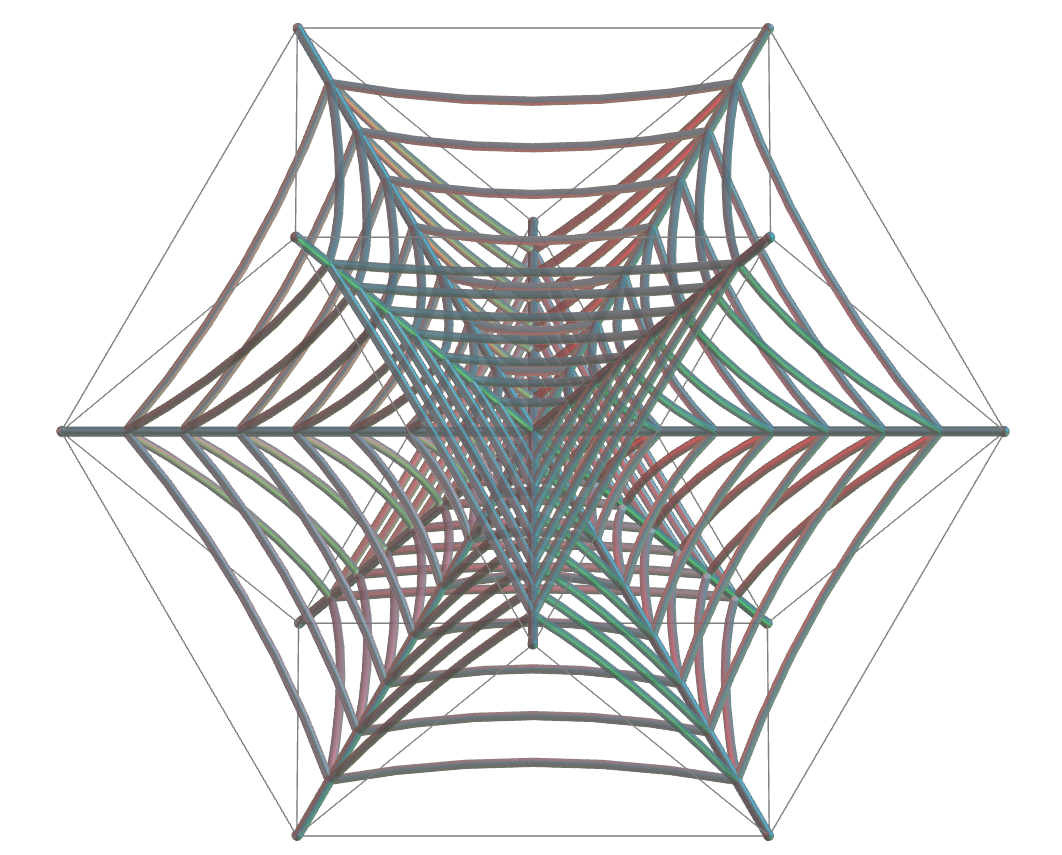
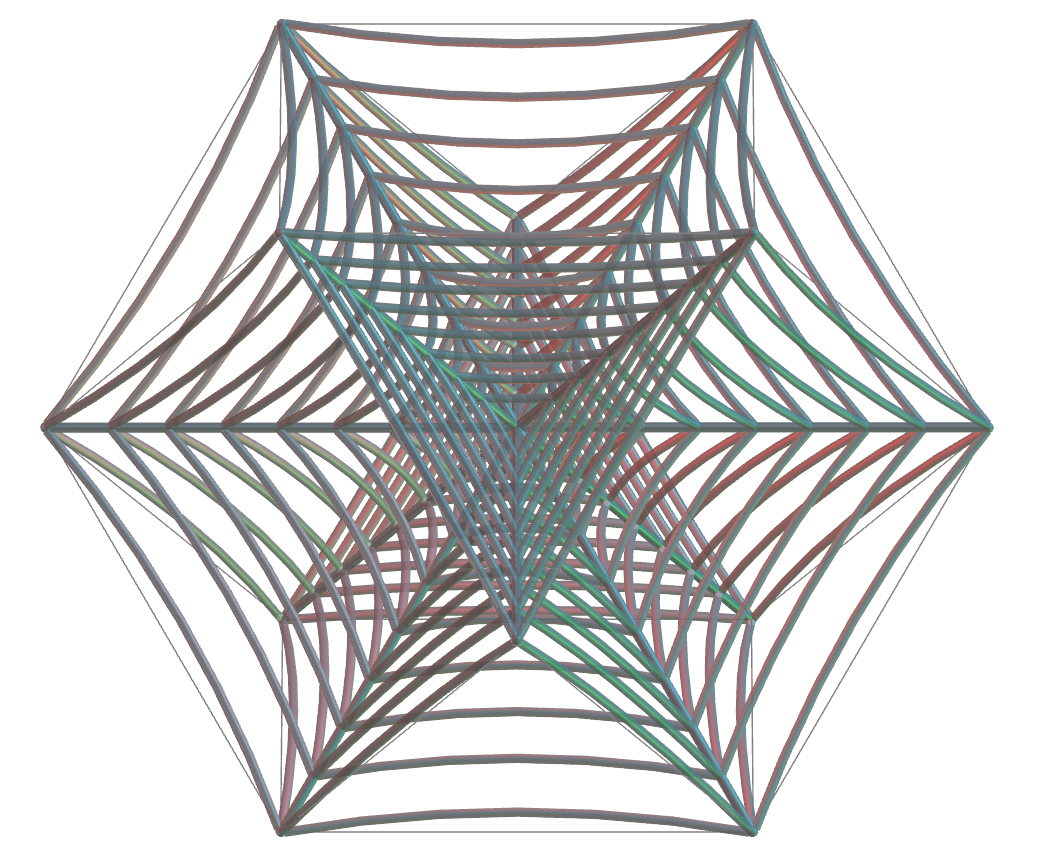
update

Changed region(s): [[0.0309, 0.0, 0.9566, 1.0]]

diff --git a/spiderweb/vr/Octahemioctahedron.htm b/spiderweb/vr/Octahemioctahedron.htm
@@ -34,7 +34,7 @@
 				<a-entity mixin="s5_3">
 					<a-entity rotation="90 90 0" scale="4.5 4.5 4.5">			
 						<a-entity mixin="s4_3">
-							<a-torus mixin="tr" position="-5.14 0 0" rotation="0 0 -10.25" arc="20.5" radius="4.87"></a-torus>
+							<a-torus mixin="tr" position="-6.17 0 0" rotation="0 0 -10" arc="20" radius="5.67"></a-torus><a-torus mixin="tr" position="-5.14 0 0" rotation="0 0 -10.25" arc="20.5" radius="4.87"></a-torus>
 							<a-torus mixin="tr" position="-4.04 0 0" rotation="0 0 -10.75" arc="21.5" radius="3.97"></a-torus>
 							<a-torus mixin="tr" position="-2.94 0 0" rotation="0 0 -11.5" arc="23" radius="3.07"></a-torus>
 							<a-torus mixin="tr" position="-1.84 0 0" rotation="0 0 -13.5" arc="27" radius="2.17"></a-torus>
@@ -48,7 +48,7 @@
 					</a-entity>
 					<a-entity rotation="90 90 60" scale="4.5 4.5 4.5">			
 						<a-entity mixin="s4_3">
-							<a-torus mixin="tr" position="-5.14 0 0" rotation="0 0 -10.25" arc="20.5" radius="4.87"></a-torus>
+							<a-torus mixin="tr" position="-6.17 0 0" rotation="0 0 -10" arc="20" radius="5.67"></a-torus><a-torus mixin="tr" position="-5.14 0 0" rotation="0 0 -10.25" arc="20.5" radius="4.87"></a-torus>
 							<a-torus mixin="tr" position="-4.04 0 0" rotation="0 0 -10.75" arc="21.5" radius="3.97"></a-torus>
 							<a-torus mixin="tr" position="-2.94 0 0" rotation="0 0 -11.5" arc="23" radius="3.07"></a-torus>
 							<a-torus mixin="tr" position="-1.84 0 0" rotation="0 0 -13.5" arc="27" radius="2.17"></a-torus>
@@ -62,7 +62,7 @@
 					</a-entity>
 					<a-entity rotation="90 90 120" scale="4.5 4.5 4.5">			
 						<a-entity mixin="s4_3">
-							<a-torus mixin="tr" position="-5.14 0 0" rotation="0 0 -10.25" arc="20.5" radius="4.87"></a-torus>
+							<a-torus mixin="tr" position="-6.17 0 0" rotation="0 0 -10" arc="20" radius="5.67"></a-torus><a-torus mixin="tr" position="-5.14 0 0" rotation="0 0 -10.25" arc="20.5" radius="4.87"></a-torus>
 							<a-torus mixin="tr" position="-4.04 0 0" rotation="0 0 -10.75" arc="21.5" radius="3.97"></a-torus>
 							<a-torus mixin="tr" position="-2.94 0 0" rotation="0 0 -11.5" arc="23" radius="3.07"></a-torus>
 							<a-torus mixin="tr" position="-1.84 0 0" rotation="0 0 -13.5" arc="27" radius="2.17"></a-torus>
@@ -76,7 +76,7 @@
 					</a-entity>
 					<a-entity rotation="90 90 180" scale="4.5 4.5 4.5">			
 						<a-entity mixin="s4_3">
-							<a-torus mixin="tr" position="-5.14 0 0" rotation="0 0 -10.25" arc="20.5" radius="4.87"></a-torus>
+							<a-torus mixin="tr" position="-6.17 0 0" rotation="0 0 -10" arc="20" radius="5.67"></a-torus><a-torus mixin="tr" position="-5.14 0 0" rotation="0 0 -10.25" arc="20.5" radius="4.87"></a-torus>
 							<a-torus mixin="tr" position="-4.04 0 0" rotation="0 0 -10.75" arc="21.5" radius="3.97"></a-torus>
 							<a-torus mixin="tr" position="-2.94 0 0" rotation="0 0 -11.5" arc="23" radius="3.07"></a-torus>
 							<a-torus mixin="tr" position="-1.84 0 0" rotation="0 0 -13.5" arc="27" radius="2.17"></a-torus>
@@ -90,7 +90,7 @@
 					</a-entity>
 					<a-entity rotation="90 90 240" scale="4.5 4.5 4.5">			
 						<a-entity mixin="s4_3">
-							<a-torus mixin="tr" position="-5.14 0 0" rotation="0 0 -10.25" arc="20.5" radius="4.87"></a-torus>
+							<a-torus mixin="tr" position="-6.17 0 0" rotation="0 0 -10" arc="20" radius="5.67"></a-torus><a-torus mixin="tr" position="-5.14 0 0" rotation="0 0 -10.25" arc="20.5" radius="4.87"></a-torus>
 							<a-torus mixin="tr" position="-4.04 0 0" rotation="0 0 -10.75" arc="21.5" radius="3.97"></a-torus>
 							<a-torus mixin="tr" position="-2.94 0 0" rotation="0 0 -11.5" arc="23" radius="3.07"></a-torus>
 							<a-torus mixin="tr" position="-1.84 0 0" rotation="0 0 -13.5" arc="27" radius="2.17"></a-torus>
@@ -104,7 +104,7 @@
 					</a-entity>
 					<a-entity rotation="90 90 300" scale="4.5 4.5 4.5">			
 						<a-entity mixin="s4_3">
-							<a-torus mixin="tr" position="-5.14 0 0" rotation="0 0 -10.25" arc="20.5" radius="4.87"></a-torus>
+							<a-torus mixin="tr" position="-6.17 0 0" rotation="0 0 -10" arc="20" radius="5.67"></a-torus><a-torus mixin="tr" position="-5.14 0 0" rotation="0 0 -10.25" arc="20.5" radius="4.87"></a-torus>
 							<a-torus mixin="tr" position="-4.04 0 0" rotation="0 0 -10.75" arc="21.5" radius="3.97"></a-torus>
 							<a-torus mixin="tr" position="-2.94 0 0" rotation="0 0 -11.5" arc="23" radius="3.07"></a-torus>
 							<a-torus mixin="tr" position="-1.84 0 0" rotation="0 0 -13.5" arc="27" radius="2.17"></a-torus>
@@ -122,7 +122,7 @@
 				<a-entity mixin="s5_3">
 					<a-entity rotation="90 90 0" scale="4.5 4.5 4.5">			
 						<a-entity mixin="s4_3">
-							<a-torus mixin="tr" position="-5.14 0 0" rotation="0 0 -10.25" arc="20.5" radius="4.87"></a-torus>
+							<a-torus mixin="tr" position="-6.17 0 0" rotation="0 0 -10" arc="20" radius="5.67"></a-torus><a-torus mixin="tr" position="-5.14 0 0" rotation="0 0 -10.25" arc="20.5" radius="4.87"></a-torus>
 							<a-torus mixin="tr" position="-4.04 0 0" rotation="0 0 -10.75" arc="21.5" radius="3.97"></a-torus>
 							<a-torus mixin="tr" position="-2.94 0 0" rotation="0 0 -11.5" arc="23" radius="3.07"></a-torus>
 							<a-torus mixin="tr" position="-1.84 0 0" rotation="0 0 -13.5" arc="27" radius="2.17"></a-torus>
@@ -136,7 +136,7 @@
 					</a-entity>
 					<a-entity rotation="90 90 60" scale="4.5 4.5 4.5">			
 						<a-entity mixin="s4_3">
-							<a-torus mixin="tr" position="-5.14 0 0" rotation="0 0 -10.25" arc="20.5" radius="4.87"></a-torus>
+							<a-torus mixin="tr" position="-6.17 0 0" rotation="0 0 -10" arc="20" radius="5.67"></a-torus><a-torus mixin="tr" position="-5.14 0 0" rotation="0 0 -10.25" arc="20.5" radius="4.87"></a-torus>
 							<a-torus mixin="tr" position="-4.04 0 0" rotation="0 0 -10.75" arc="21.5" radius="3.97"></a-torus>
 							<a-torus mixin="tr" position="-2.94 0 0" rotation="0 0 -11.5" arc="23" radius="3.07"></a-torus>
 							<a-torus mixin="tr" position="-1.84 0 0" rotation="0 0 -13.5" arc="27" radius="2.17"></a-torus>
@@ -150,7 +150,7 @@
 					</a-entity>
 					<a-entity rotation="90 90 120" scale="4.5 4.5 4.5">			
 						<a-entity mixin="s4_3">
-							<a-torus mixin="tr" position="-5.14 0 0" rotation="0 0 -10.25" arc="20.5" radius="4.87"></a-torus>
+							<a-torus mixin="tr" position="-6.17 0 0" rotation="0 0 -10" arc="20" radius="5.67"></a-torus><a-torus mixin="tr" position="-5.14 0 0" rotation="0 0 -10.25" arc="20.5" radius="4.87"></a-torus>
 							<a-torus mixin="tr" position="-4.04 0 0" rotation="0 0 -10.75" arc="21.5" radius="3.97"></a-torus>
 							<a-torus mixin="tr" position="-2.94 0 0" rotation="0 0 -11.5" arc="23" radius="3.07"></a-torus>
 							<a-torus mixin="tr" position="-1.84 0 0" rotation="0 0 -13.5" arc="27" radius="2.17"></a-torus>
@@ -164,7 +164,7 @@
 					</a-entity>
 					<a-entity rotation="90 90 180" scale="4.5 4.5 4.5">			
 						<a-entity mixin="s4_3">
-							<a-torus mixin="tr" position="-5.14 0 0" rotation="0 0 -10.25" arc="20.5" radius="4.87"></a-torus>
+							<a-torus mixin="tr" position="-6.17 0 0" rotation="0 0 -10" arc="20" radius="5.67"></a-torus><a-torus mixin="tr" position="-5.14 0 0" rotation="0 0 -10.25" arc="20.5" radius="4.87"></a-torus>
 							<a-torus mixin="tr" position="-4.04 0 0" rotation="0 0 -10.75" arc="21.5" radius="3.97"></a-torus>
 							<a-torus mixin="tr" position="-2.94 0 0" rotation="0 0 -11.5" arc="23" radius="3.07"></a-torus>
 							<a-torus mixin="tr" position="-1.84 0 0" rotation="0 0 -13.5" arc="27" radius="2.17"></a-torus>
@@ -178,7 +178,7 @@
 					</a-entity>
 					<a-entity rotation="90 90 240" scale="4.5 4.5 4.5">			
 						<a-entity mixin="s4_3">
-							<a-torus mixin="tr" position="-5.14 0 0" rotation="0 0 -10.25" arc="20.5" radius="4.87"></a-torus>
+							<a-torus mixin="tr" position="-6.17 0 0" rotation="0 0 -10" arc="20" radius="5.67"></a-torus><a-torus mixin="tr" position="-5.14 0 0" rotation="0 0 -10.25" arc="20.5" radius="4.87"></a-torus>
 							<a-torus mixin="tr" position="-4.04 0 0" rotation="0 0 -10.75" arc="21.5" radius="3.97"></a-torus>
 							<a-torus mixin="tr" position="-2.94 0 0" rotation="0 0 -11.5" arc="23" radius="3.07"></a-torus>
 							<a-torus mixin="tr" position="-1.84 0 0" rotation="0 0 -13.5" arc="27" radius="2.17"></a-torus>
@@ -192,7 +192,7 @@
 					</a-entity>
 					<a-entity rotation="90 90 300" scale="4.5 4.5 4.5">			
 						<a-entity mixin="s4_3">
-							<a-torus mixin="tr" position="-5.14 0 0" rotation="0 0 -10.25" arc="20.5" radius="4.87"></a-torus>
+							<a-torus mixin="tr" position="-6.17 0 0" rotation="0 0 -10" arc="20" radius="5.67"></a-torus><a-torus mixin="tr" position="-5.14 0 0" rotation="0 0 -10.25" arc="20.5" radius="4.87"></a-torus>
 							<a-torus mixin="tr" position="-4.04 0 0" rotation="0 0 -10.75" arc="21.5" radius="3.97"></a-torus>
 							<a-torus mixin="tr" position="-2.94 0 0" rotation="0 0 -11.5" arc="23" radius="3.07"></a-torus>
 							<a-torus mixin="tr" position="-1.84 0 0" rotation="0 0 -13.5" arc="27" radius="2.17"></a-torus>
@@ -210,7 +210,7 @@
 				<a-entity mixin="s5_3">
 					<a-entity rotation="90 90 0" scale="4.5 4.5 4.5">			
 						<a-entity mixin="s4_3">
-							<a-torus mixin="tr" position="-5.14 0 0" rotation="0 0 -10.25" arc="20.5" radius="4.87"></a-torus>
+							<a-torus mixin="tr" position="-6.17 0 0" rotation="0 0 -10" arc="20" radius="5.67"></a-torus><a-torus mixin="tr" position="-5.14 0 0" rotation="0 0 -10.25" arc="20.5" radius="4.87"></a-torus>
 							<a-torus mixin="tr" position="-4.04 0 0" rotation="0 0 -10.75" arc="21.5" radius="3.97"></a-torus>
 							<a-torus mixin="tr" position="-2.94 0 0" rotation="0 0 -11.5" arc="23" radius="3.07"></a-torus>
 							<a-torus mixin="tr" position="-1.84 0 0" rotation="0 0 -13.5" arc="27" radius="2.17"></a-torus>
@@ -224,7 +224,7 @@
 					</a-entity>
 					<a-entity rotation="90 90 60" scale="4.5 4.5 4.5">			
 						<a-entity mixin="s4_3">
-							<a-torus mixin="tr" position="-5.14 0 0" rotation="0 0 -10.25" arc="20.5" radius="4.87"></a-torus>
+							<a-torus mixin="tr" position="-6.17 0 0" rotation="0 0 -10" arc="20" radius="5.67"></a-torus><a-torus mixin="tr" position="-5.14 0 0" rotation="0 0 -10.25" arc="20.5" radius="4.87"></a-torus>
 							<a-torus mixin="tr" position="-4.04 0 0" rotation="0 0 -10.75" arc="21.5" radius="3.97"></a-torus>
 							<a-torus mixin="tr" position="-2.94 0 0" rotation="0 0 -11.5" arc="23" radius="3.07"></a-torus>
 							<a-torus mixin="tr" position="-1.84 0 0" rotation="0 0 -13.5" arc="27" radius="2.17"></a-torus>
@@ -238,7 +238,7 @@
 					</a-entity>
 					<a-entity rotation="90 90 120" scale="4.5 4.5 4.5">			
 						<a-entity mixin="s4_3">
-							<a-torus mixin="tr" position="-5.14 0 0" rotation="0 0 -10.25" arc="20.5" radius="4.87"></a-torus>
+							<a-torus mixin="tr" position="-6.17 0 0" rotation="0 0 -10" arc="20" radius="5.67"></a-torus><a-torus mixin="tr" position="-5.14 0 0" rotation="0 0 -10.25" arc="20.5" radius="4.87"></a-torus>
 							<a-torus mixin="tr" position="-4.04 0 0" rotation="0 0 -10.75" arc="21.5" radius="3.97"></a-torus>
 							<a-torus mixin="tr" position="-2.94 0 0" rotation="0 0 -11.5" arc="23" radius="3.07"></a-torus>
 							<a-torus mixin="tr" position="-1.84 0 0" rotation="0 0 -13.5" arc="27" radius="2.17"></a-torus>
@@ -252,7 +252,7 @@
 					</a-entity>
 					<a-entity rotation="90 90 180" scale="4.5 4.5 4.5">			
 						<a-entity mixin="s4_3">
-							<a-torus mixin="tr" position="-5.14 0 0" rotation="0 0 -10.25" arc="20.5" radius="4.87"></a-torus>
+							<a-torus mixin="tr" position="-6.17 0 0" rotation="0 0 -10" arc="20" radius="5.67"></a-torus><a-torus mixin="tr" position="-5.14 0 0" rotation="0 0 -10.25" arc="20.5" radius="4.87"></a-torus>
 							<a-torus mixin="tr" position="-4.04 0 0" rotation="0 0 -10.75" arc="21.5" radius="3.97"></a-torus>
 							<a-torus mixin="tr" position="-2.94 0 0" rotation="0 0 -11.5" arc="23" radius="3.07"></a-torus>
 							<a-torus mixin="tr" position="-1.84 0 0" rotation="0 0 -13.5" arc="27" radius="2.17"></a-torus>
@@ -266,7 +266,7 @@
 					</a-entity>
 					<a-entity rotation="90 90 240" scale="4.5 4.5 4.5">			
 						<a-entity mixin="s4_3">
-							<a-torus mixin="tr" position="-5.14 0 0" rotation="0 0 -10.25" arc="20.5" radius="4.87"></a-torus>
+							<a-torus mixin="tr" position="-6.17 0 0" rotation="0 0 -10" arc="20" radius="5.67"></a-torus><a-torus mixin="tr" position="-5.14 0 0" rotation="0 0 -10.25" arc="20.5" radius="4.87"></a-torus>
 							<a-torus mixin="tr" position="-4.04 0 0" rotation="0 0 -10.75" arc="21.5" radius="3.97"></a-torus>
 							<a-torus mixin="tr" position="-2.94 0 0" rotation="0 0 -11.5" arc="23" radius="3.07"></a-torus>
 							<a-torus mixin="tr" position="-1.84 0 0" rotation="0 0 -13.5" arc="27" radius="2.17"></a-torus>
@@ -280,7 +280,7 @@
 					</a-entity>
 					<a-entity rotation="90 90 300" scale="4.5 4.5 4.5">			
 						<a-entity mixin="s4_3">
-							<a-torus mixin="tr" position="-5.14 0 0" rotation="0 0 -10.25" arc="20.5" radius="4.87"></a-torus>
+							<a-torus mixin="tr" position="-6.17 0 0" rotation="0 0 -10" arc="20" radius="5.67"></a-torus><a-torus mixin="tr" position="-5.14 0 0" rotation="0 0 -10.25" arc="20.5" radius="4.87"></a-torus>
 							<a-torus mixin="tr" position="-4.04 0 0" rotation="0 0 -10.75" arc="21.5" radius="3.97"></a-torus>
 							<a-torus mixin="tr" position="-2.94 0 0" rotation="0 0 -11.5" arc="23" radius="3.07"></a-torus>
 							<a-torus mixin="tr" position="-1.84 0 0" rotation="0 0 -13.5" arc="27" radius="2.17"></a-torus>
@@ -298,7 +298,7 @@
 				<a-entity mixin="s5_3">
 					<a-entity rotation="90 90 0" scale="4.5 4.5 4.5">			
 						<a-entity mixin="s4_3">
-							<a-torus mixin="tr" position="-5.14 0 0" rotation="0 0 -10.25" arc="20.5" radius="4.87"></a-torus>
+							<a-torus mixin="tr" position="-6.17 0 0" rotation="0 0 -10" arc="20" radius="5.67"></a-torus><a-torus mixin="tr" position="-5.14 0 0" rotation="0 0 -10.25" arc="20.5" radius="4.87"></a-torus>
 							<a-torus mixin="tr" position="-4.04 0 0" rotation="0 0 -10.75" arc="21.5" radius="3.97"></a-torus>
 							<a-torus mixin="tr" position="-2.94 0 0" rotation="0 0 -11.5" arc="23" radius="3.07"></a-torus>
 							<a-torus mixin="tr" position="-1.84 0 0" rotation="0 0 -13.5" arc="27" radius="2.17"></a-torus>
@@ -312,7 +312,7 @@
 					</a-entity>
 					<a-entity rotation="90 90 60" scale="4.5 4.5 4.5">			
 						<a-entity mixin="s4_3">
-							<a-torus mixin="tr" position="-5.14 0 0" rotation="0 0 -10.25" arc="20.5" radius="4.87"></a-torus>
+							<a-torus mixin="tr" position="-6.17 0 0" rotation="0 0 -10" arc="20" radius="5.67"></a-torus><a-torus mixin="tr" position="-5.14 0 0" rotation="0 0 -10.25" arc="20.5" radius="4.87"></a-torus>
 							<a-torus mixin="tr" position="-4.04 0 0" rotation="0 0 -10.75" arc="21.5" radius="3.97"></a-torus>
 							<a-torus mixin="tr" position="-2.94 0 0" rotation="0 0 -11.5" arc="23" radius="3.07"></a-torus>
 							<a-torus mixin="tr" position="-1.84 0 0" rotation="0 0 -13.5" arc="27" radius="2.17"></a-torus>
@@ -326,7 +326,7 @@
 					</a-entity>
 					<a-entity rotation="90 90 120" scale="4.5 4.5 4.5">			
 						<a-entity mixin="s4_3">
-							<a-torus mixin="tr" position="-5.14 0 0" rotation="0 0 -10.25" arc="20.5" radius="4.87"></a-torus>
+							<a-torus mixin="tr" position="-6.17 0 0" rotation="0 0 -10" arc="20" radius="5.67"></a-torus><a-torus mixin="tr" position="-5.14 0 0" rotation="0 0 -10.25" arc="20.5" radius="4.87"></a-torus>
 							<a-torus mixin="tr" position="-4.04 0 0" rotation="0 0 -10.75" arc="21.5" radius="3.97"></a-torus>
 							<a-torus mixin="tr" position="-2.94 0 0" rotation="0 0 -11.5" arc="23" radius="3.07"></a-torus>
 							<a-torus mixin="tr" position="-1.84 0 0" rotation="0 0 -13.5" arc="27" radius="2.17"></a-torus>
@@ -340,7 +340,7 @@
 					</a-entity>
 					<a-entity rotation="90 90 180" scale="4.5 4.5 4.5">			
 						<a-entity mixin="s4_3">
-							<a-torus mixin="tr" position="-5.14 0 0" rotation="0 0 -10.25" arc="20.5" radius="4.87"></a-torus>
+							<a-torus mixin="tr" position="-6.17 0 0" rotation="0 0 -10" arc="20" radius="5.67"></a-torus><a-torus mixin="tr" position="-5.14 0 0" rotation="0 0 -10.25" arc="20.5" radius="4.87"></a-torus>
 							<a-torus mixin="tr" position="-4.04 0 0" rotation="0 0 -10.75" arc="21.5" radius="3.97"></a-torus>
 							<a-torus mixin="tr" position="-2.94 0 0" rotation="0 0 -11.5" arc="23" radius="3.07"></a-torus>
 							<a-torus mixin="tr" position="-1.84 0 0" rotation="0 0 -13.5" arc="27" radius="2.17"></a-torus>
@@ -354,7 +354,7 @@
 					</a-entity>
 					<a-entity rotation="90 90 240" scale="4.5 4.5 4.5">			
 						<a-entity mixin="s4_3">
-							<a-torus mixin="tr" position="-5.14 0 0" rotation="0 0 -10.25" arc="20.5" radius="4.87"></a-torus>
+							<a-torus mixin="tr" position="-6.17 0 0" rotation="0 0 -10" arc="20" radius="5.67"></a-torus><a-torus mixin="tr" position="-5.14 0 0" rotation="0 0 -10.25" arc="20.5" radius="4.87"></a-torus>
 							<a-torus mixin="tr" position="-4.04 0 0" rotation="0 0 -10.75" arc="21.5" radius="3.97"></a-torus>
 							<a-torus mixin="tr" position="-2.94 0 0" rotation="0 0 -11.5" arc="23" radius="3.07"></a-torus>
 							<a-torus mixin="tr" position="-1.84 0 0" rotation="0 0 -13.5" arc="27" radius="2.17"></a-torus>
@@ -368,7 +368,7 @@
 					</a-entity>
 					<a-entity rotation="90 90 300" scale="4.5 4.5 4.5">			
 						<a-entity mixin="s4_3">
-							<a-torus mixin="tr" position="-5.14 0 0" rotation="0 0 -10.25" arc="20.5" radius="4.87"></a-torus>
+							<a-torus mixin="tr" position="-6.17 0 0" rotation="0 0 -10" arc="20" radius="5.67"></a-torus><a-torus mixin="tr" position="-5.14 0 0" rotation="0 0 -10.25" arc="20.5" radius="4.87"></a-torus>
 							<a-torus mixin="tr" position="-4.04 0 0" rotation="0 0 -10.75" arc="21.5" radius="3.97"></a-torus>
 							<a-torus mixin="tr" position="-2.94 0 0" rotation="0 0 -11.5" arc="23" radius="3.07"></a-torus>
 							<a-torus mixin="tr" position="-1.84 0 0" rotation="0 0 -13.5" arc="27" radius="2.17"></a-torus>
